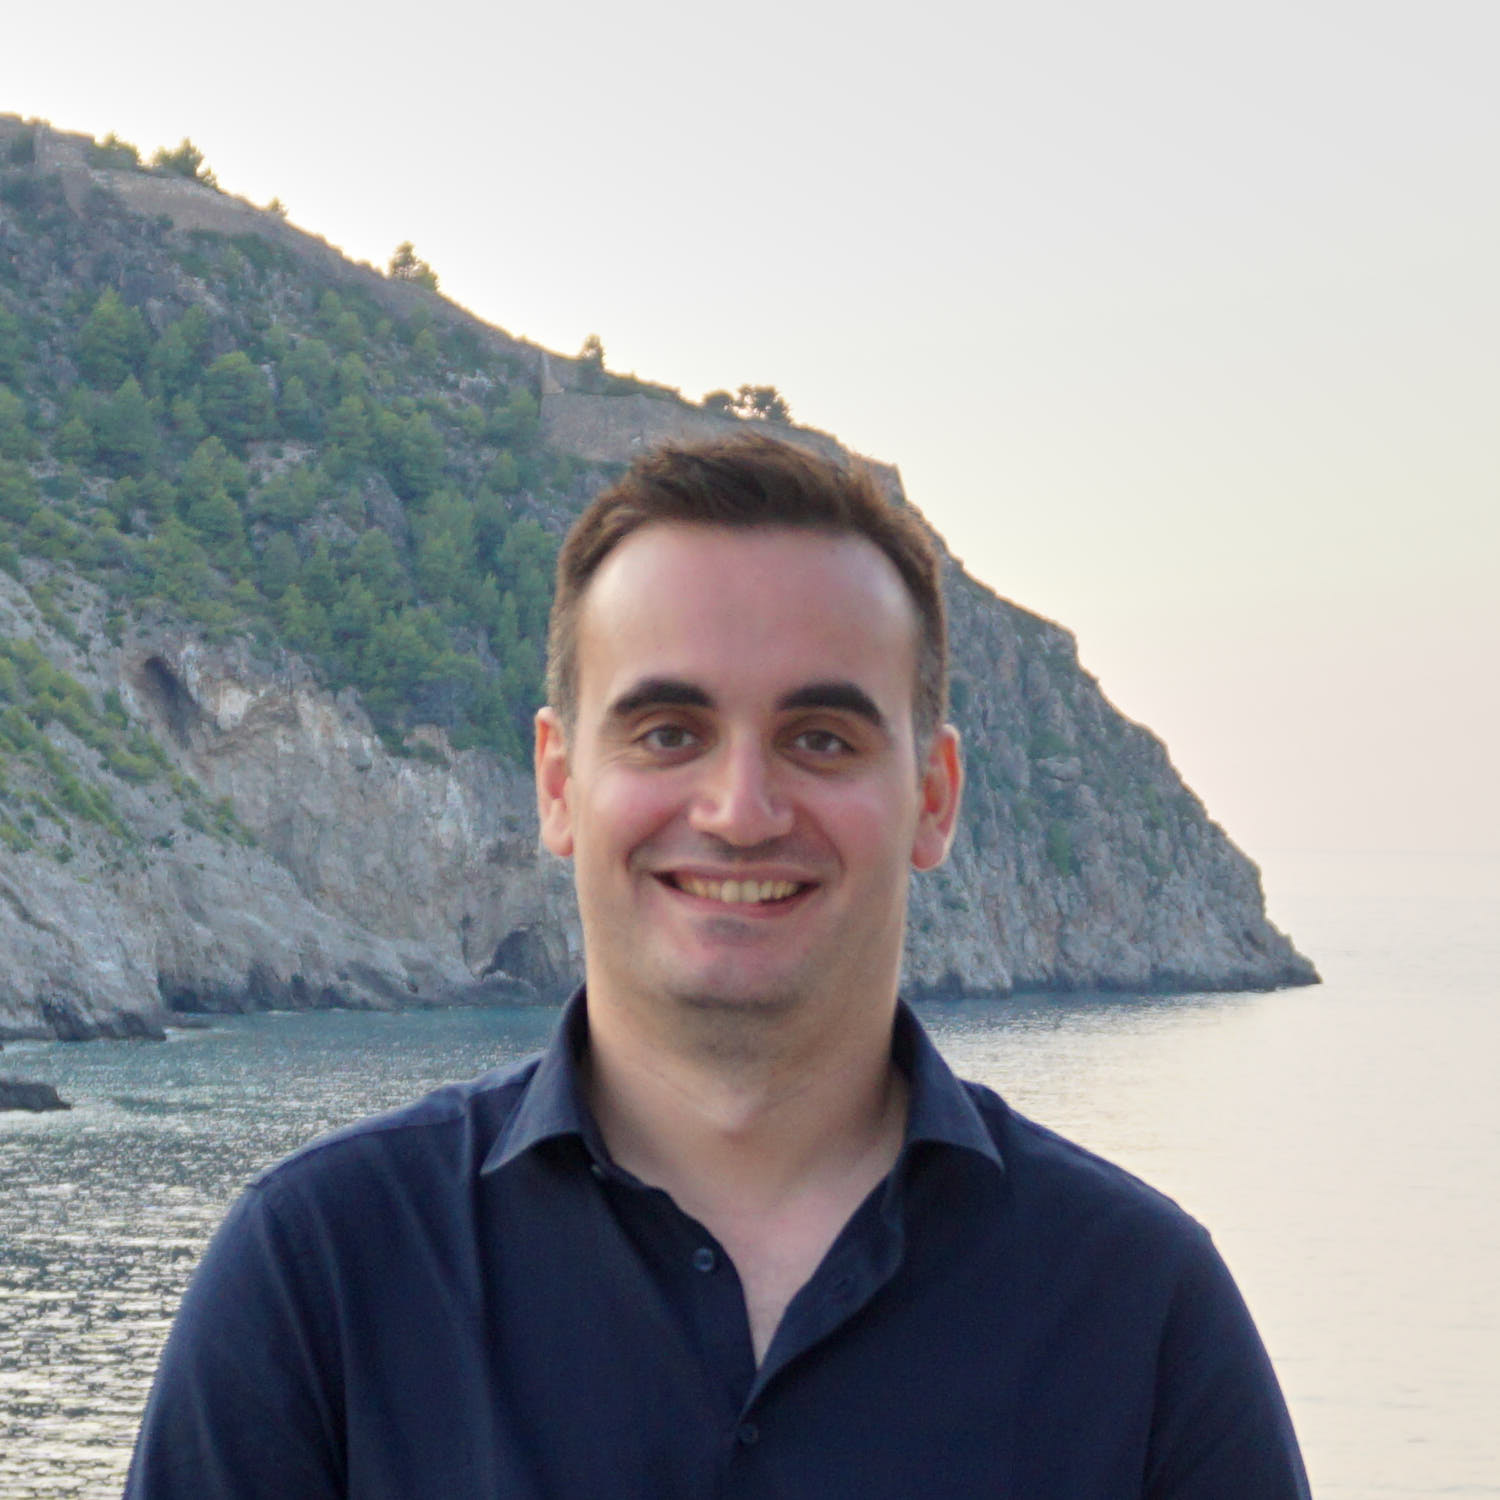
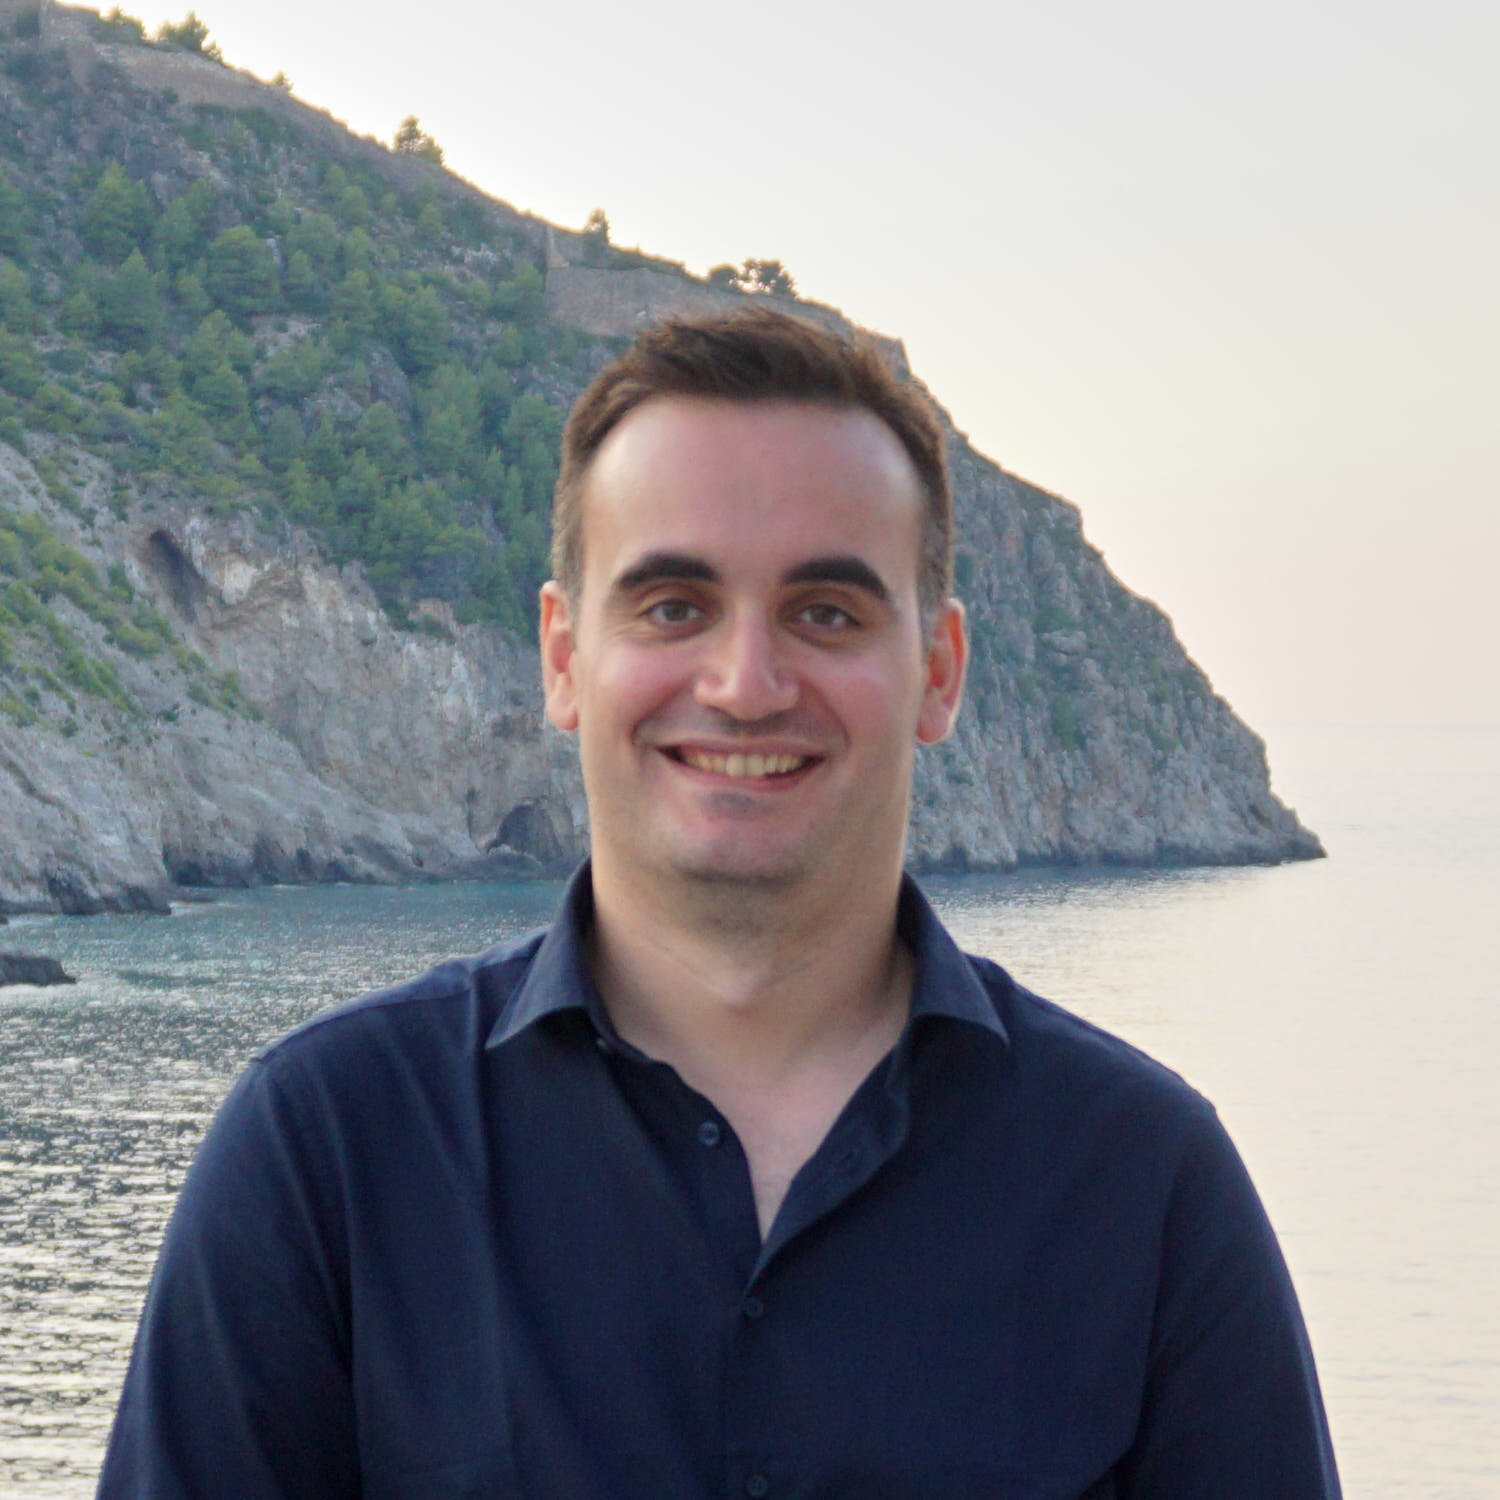
Added new photo, added about me text, added README

diff --git a/components/HomeContent.js b/components/HomeContent.js
@@ -20,7 +20,7 @@ const StyledImage = styled.div`
   padding: 20px 0 0 0;
 
   @media (min-width: 1120px) {
-    align-items: center;
+    align-items: flex-start;
     justify-content: flex-start;
     flex: 1 1 0px;
   }
@@ -36,8 +36,8 @@ const StyledText = styled.div`
   border-top: 4px solid ${ANCHOR_LINK_COLOR};
 
   @media (min-width: 1120px) {
-    flex: 3 1 0px;
-    height: 340px;
+    flex: 2 1 0px;
+    height: 380px;
     margin: 0;
   }
 `;
@@ -53,21 +53,24 @@ const HomeContent = () => (
     <StyledText>
       <Typography as="h1">Hi, I'm Stavros!</Typography>
       <Typography as="p">
-        I'm a Front End Developer from Thessaloniki, Greece and I enjoy creating
-        great web experiences with a focus in the UI and UX.
-        <br />
-        In my over {getExperienceInYears()} years as a developer I used
-        different technologies for each project, starting with jQuery back in
-        the day, then moving to Angular.js and for the past years I feel
-        comfortable with React + Redux.
-        <br />
-        In my free time i like to mostly spend time with my family, take photos
-        with my camera, read a book or play a game in the PS4.
+        I'm a Front End Developer from Thessaloniki, Greece and I love to create
+        great web experiences.
       </Typography>
       <Typography as="p">
-        Ok so you read my text, you learned some things about me and you are
-        wondering now what? Well, this page is a work in progress, as the owner,
-        so in the meantime, feel free to send me an {""}
+        The way a website looks and feels are very important factors and can
+        determine the choice of a potential customer. But the creation of an
+        engaging website or app is a long process with trial and error and
+        sometimes quite difficult to nail down. <br />
+        This is where I can help. I enjoy creating sleek web interfaces by
+        utilizing the latest web technologies along with the best UI and UX
+        practices. I have more than {getExperienceInYears()} years of experience
+        developing and scaling different kinds of web applications and have been
+        a part of small and big teams.
+      </Typography>
+      <Typography as="p">
+        So you read my little intro and you are wondering now what? Well, this
+        page is a work in progress, with more things to come in the future. So
+        in the meantime, feel free to send me an {""}
         <AnchorLink
           href={`mailto:${email}?subject=Hello Stavros!`}
           text="e-mail"

diff --git a/components/Layout.js b/components/Layout.js
@@ -1,15 +1,20 @@
 import React from "react";
 import { NavBar, Footer } from "../components";
 import styled from "@emotion/styled";
-import { PRIMARY_BG_COLOR } from "../constants/colors";
 
 const StyledWrapper = styled.div`
   display: flex;
   min-height: 100vh;
   flex-direction: column;
-  padding: 0 10%;
+  padding: 0 14%;
   background: linear-gradient(45deg, #4b6cb7 0%, #182848 100%);
 
+  @media (max-width: 1390px) {
+    padding: 0 12%;
+  }
+  @media (max-width: 1200px) {
+    padding: 0 10%;
+  }
   @media (max-width: 1120px) {
     padding: 0 7%;
   }

diff --git a/components/ProfileIcons.js b/components/ProfileIcons.js
@@ -12,6 +12,10 @@ import { linkedin, github, instagram, email } from "../constants/urls";
 
 const StyledIconWrapper = styled.div`
   padding: 10px 0;
+  /* width of image plus the image ring */
+  width: 246px;
+  display: flex;
+  justify-content: center;
 `;
 
 const StyledAnchor = styled.a`

diff --git a/components/ProfileImage.js b/components/ProfileImage.js
@@ -7,6 +7,11 @@ const StyledImage = styled.img`
   height: 200px;
   width: 200px;
   border: 3px solid white;
+
+  @media (min-width: 1120px) {
+    height: 240px;
+    width: 240px;
+  }
 `;
 
 const ProfileImage = () => <StyledImage src={profile} alt="profile image" />;

diff --git a/components/Typography.js b/components/Typography.js
@@ -26,6 +26,7 @@ const StyledParagraph = styled.div`
       css`
         font-size: 1rem;
         font-weight: 300;
+        margin: 0.3rem 0;
       `}
 
     /* p small */

diff --git a/README.md b/README.md
@@ -1,30 +1,5 @@
-This is a [Next.js](https://nextjs.org/) project bootstrapped with [`create-next-app`](https://github.com/zeit/next.js/tree/canary/packages/create-next-app).
+# About me
 
-## Getting Started
+This is my personal website. Right now there is only an about me page but i have some plans for some more info.
 
-First, run the development server:
-
-```bash
-npm run dev
-# or
-yarn dev
-```
-
-Open [http://localhost:3000](http://localhost:3000) with your browser to see the result.
-
-You can start editing the page by modifying `pages/index.js`. The page auto-updates as you edit the file.
-
-## Learn More
-
-To learn more about Next.js, take a look at the following resources:
-
-- [Next.js Documentation](https://nextjs.org/docs) - learn about Next.js features and API.
-- [Learn Next.js](https://nextjs.org/learn) - an interactive Next.js tutorial.
-
-You can check out [the Next.js GitHub repository](https://github.com/zeit/next.js/) - your feedback and contributions are welcome!
-
-## Deploy on ZEIT Now
-
-The easiest way to deploy your Next.js app is to use the [ZEIT Now Platform](https://zeit.co/import?utm_medium=default-template&filter=next.js&utm_source=create-next-app&utm_campaign=create-next-app-readme) from the creators of Next.js.
-
-Check out our [Next.js deployment documentation](https://nextjs.org/docs/deployment) for more details.
+I made it with React, Next.js and Emotion.js
